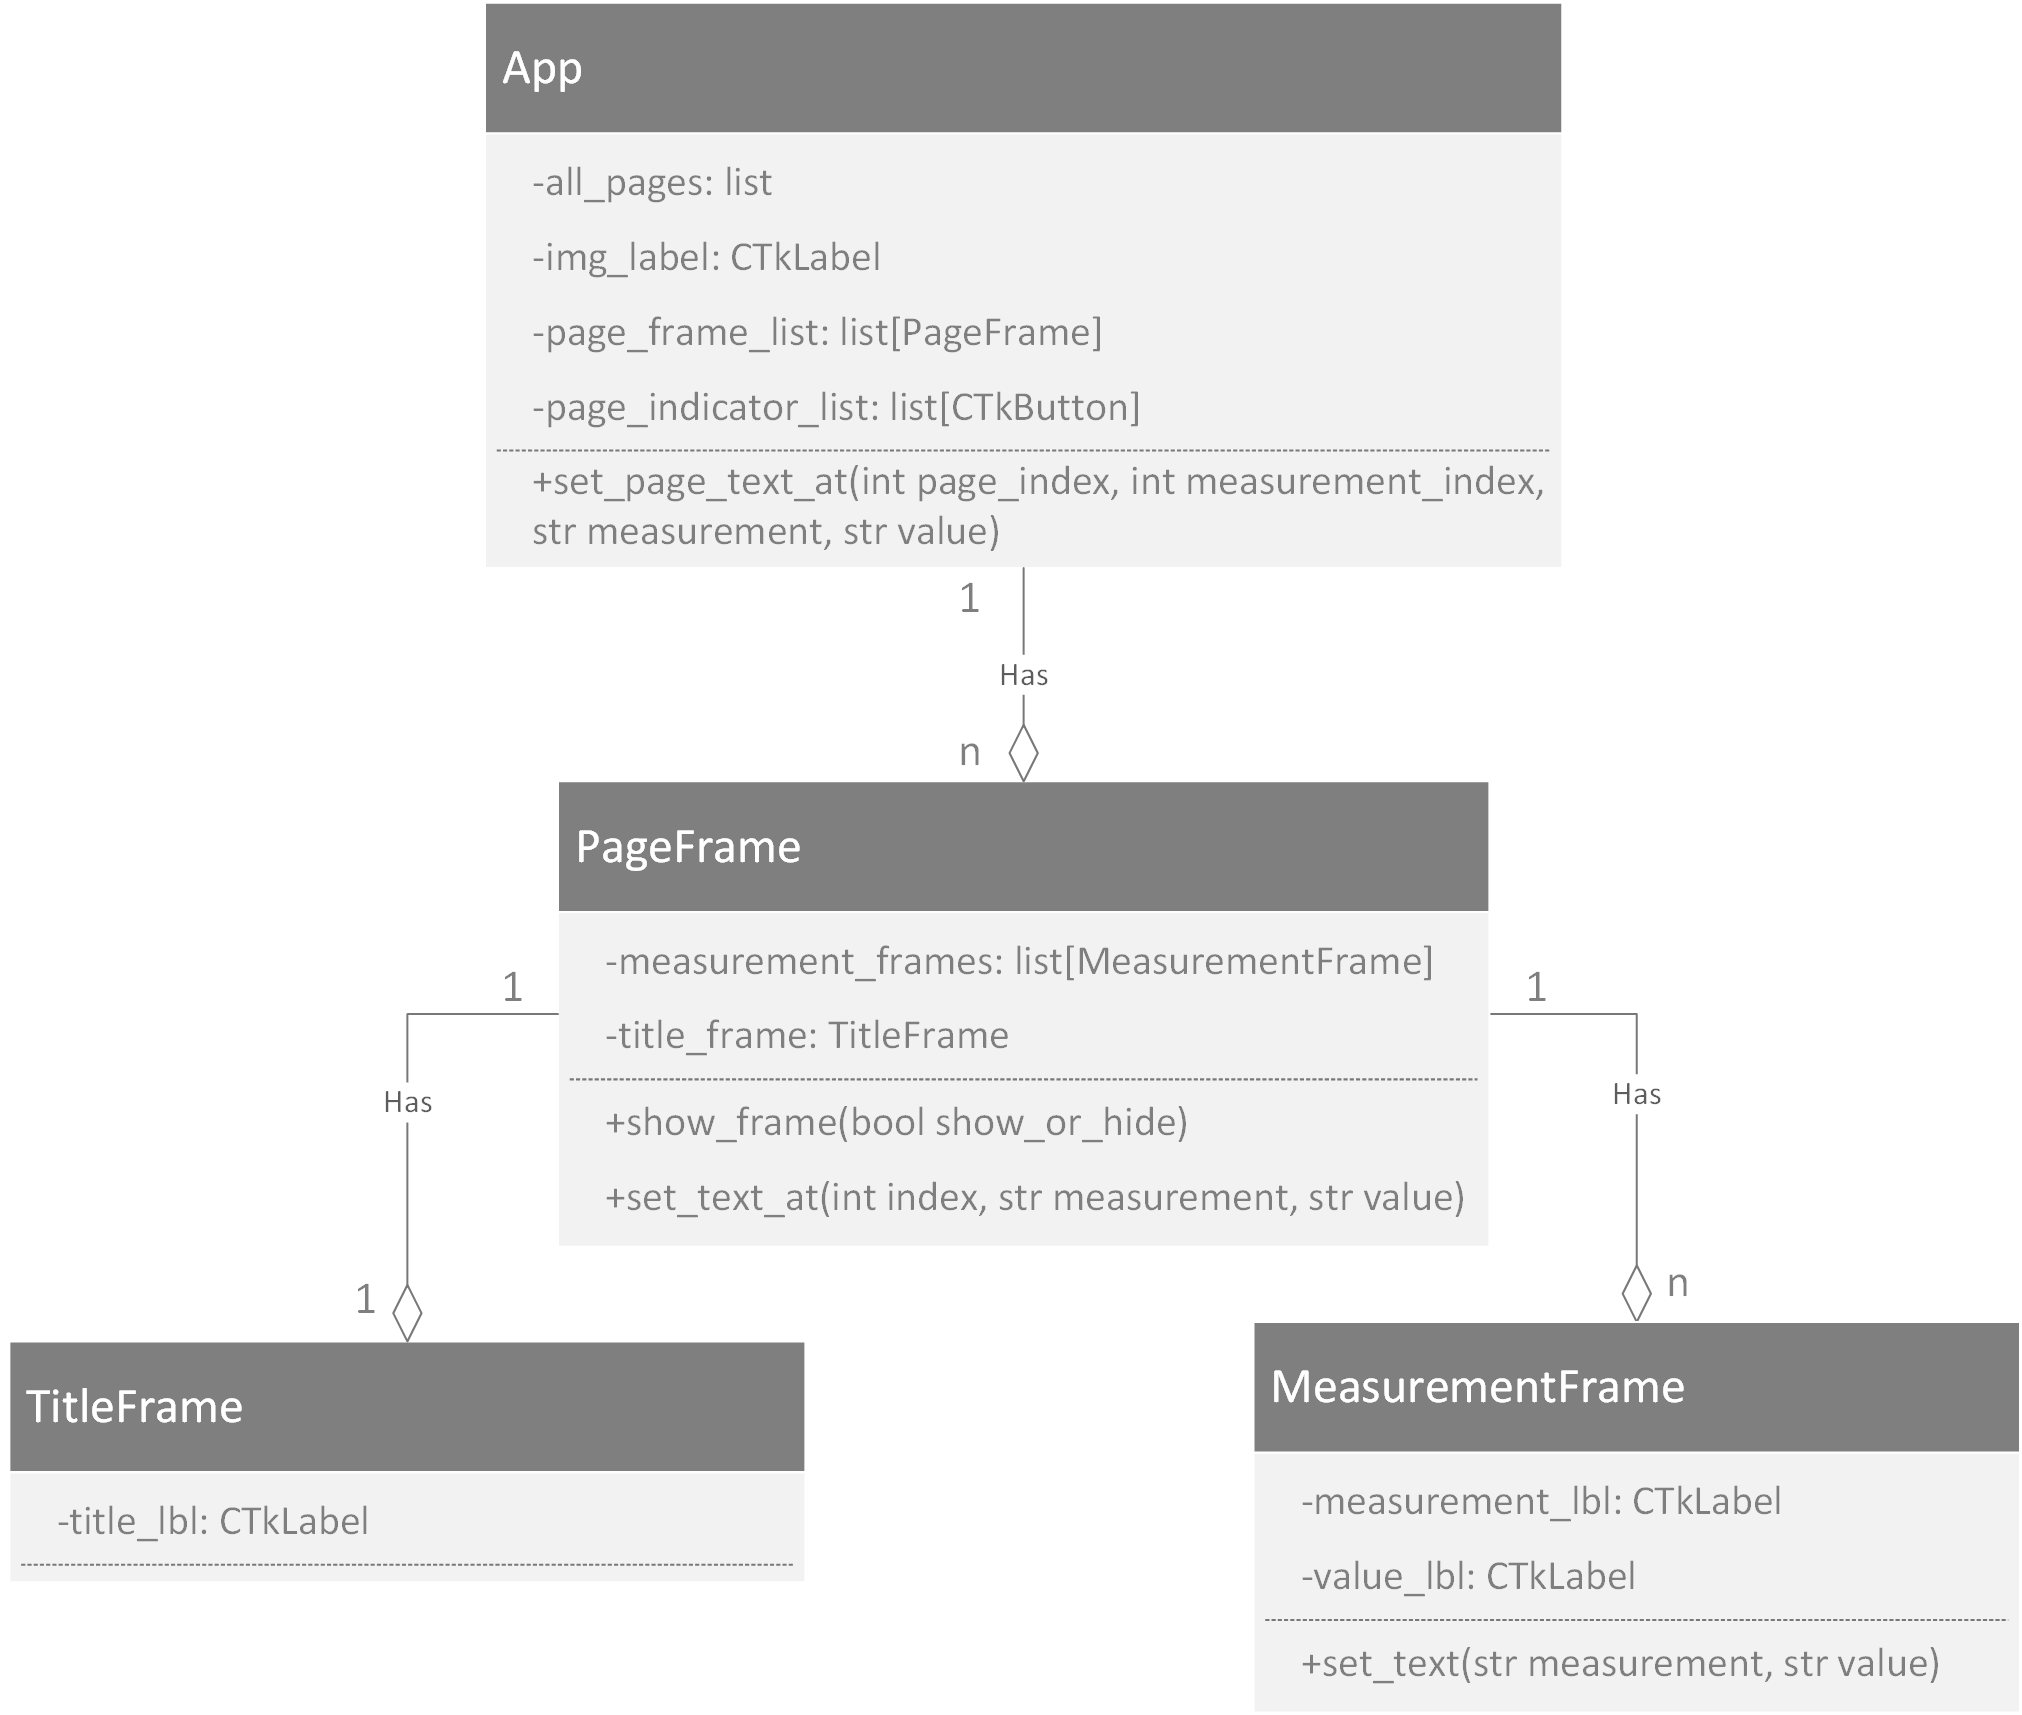
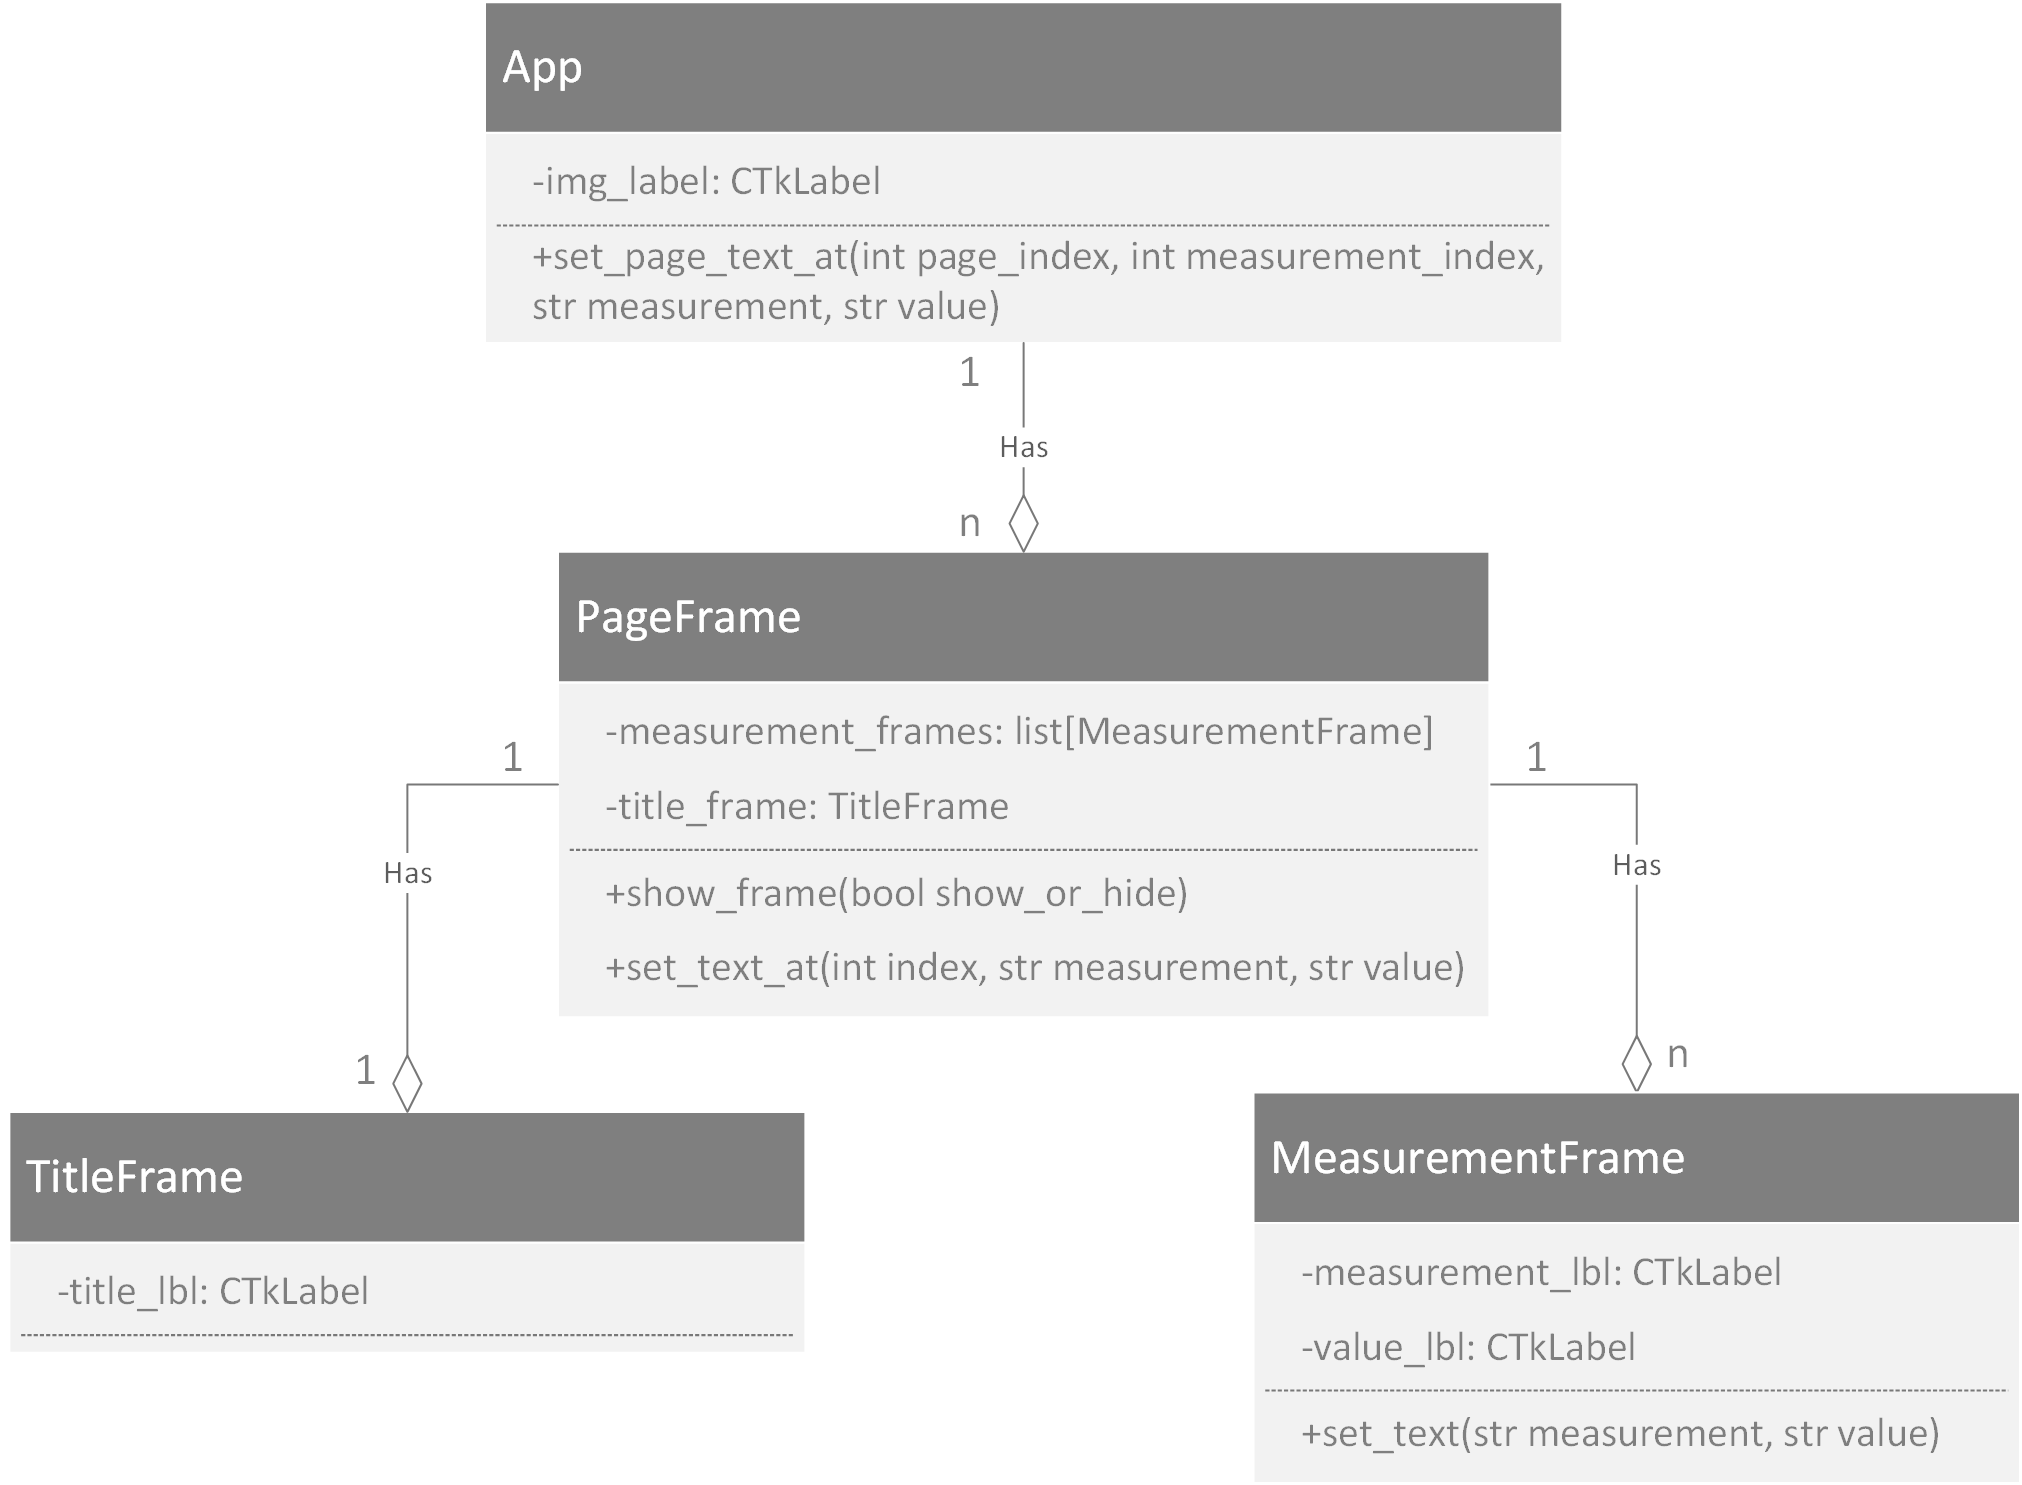
gui code vorerst fertig erklärt

diff --git a/tkintercode.tex b/tkintercode.tex
@@ -4,7 +4,7 @@ Im Vordergrund basiert die Klassenstruktur grundsätzlich auf \gls{gls_ctk} Komp
 
 \begin{figure}[H]
 	\centering
-	\includegraphics[width=0.84\textwidth]{uml_frontent_class_diagram}
+	\includegraphics[width=0.95\textwidth]{uml_frontent_class_diagram}
 	\caption{UML Diagramm Frontend \label{fig:klassenstruktur_frontend}}
 \end{figure}
 
@@ -12,7 +12,7 @@ Im Vordergrund basiert die Klassenstruktur grundsätzlich auf \gls{gls_ctk} Komp
 Eine nähere Beschreibung und die Umsetzung der vorher genannten Klassen erfolgt in diesem Kapitel. 
 \newline Wie zuletzt beschrieben, basieren alle Klassen im Frontend auf \gls{gls_ctk}. Die Klassen sind dabei alle (bis auf die Klasse \enquote{App}) vom Typ \enquote{CTkFrame}. Ein \enquote{CTkFrame} ist ein Widget, das wie ein Rahmen \bzw Behälter für andere Widgets fungiert. So können diese in weiteren Widgets gruppiert und besser organisiert werden. Als erster Parameter wird für \enquote{CTkFrames}, wie bei allen \gls{gls_tk} und \gls{gls_ctk} Widgets, der \enquote{master} \bzw das Elternobjekt angegeben. Darüber hinaus können die Breite (\enquote{width}), Höhe (\enquote{height}), Rahmenbreite \bzw -Farbe (\enquote{border\_width} \bzw \enquote{border\_color}) sowie die Hintergrundfarbe (\enquote{fg\_color}) angegeben werden. \cite[vgl.][]{Schimansky:o.J.}
 
-Die Klasse \enquote{TitleFrame} enthält ein \enquote{CTkLabel}, welches mit der \enquote{place( )} Methode im Behälter platziert wird. Die Klasse \enquote{CTkLabel} basiert auf der Klasse \enquote{tkinter.Label} und dient zur Darstellung eines Textes. In diesem Label steht immer der Titel der zugehörigen Seite. Das \enquote{title\_font} Objekt, welches im folgenden Code zu sehen ist, ist eine Instanz der \gls{gls_ctk} Utility Klasse \enquote{CTkFont}. Es wird verwendet, um die Schriftformatierung von \gls{gls_ctk} Widgets vorzunehmen. Jedes \gls{gls_ctk} Widget bekommt standardmäßig ein \enquote{CTkFont} Objekt, wobei ein solches Objekt zeitgleich mehreren Widgets angefügt werden kann. Eine Änderung eines \enquote{CTkFont} Objekts wird an alle Widgets, die es verwenden, weitergeleitet. \cite[vgl.][]{Schimansky:o.J.}
+Die Klasse \enquote{TitleFrame} enthält ein \enquote{CTkLabel}, welches mit der \enquote{place( )} Methode im Behälter platziert wird. Die Klasse \enquote{CTkLabel} basiert auf der Klasse \enquote{tkinter.Label} und dient zur Darstellung eines Textes. Im \enquote{TitleFrame} Label steht immer der Titel der zugehörigen Seite. Das \enquote{title\_font} Objekt, welches im folgenden Code zu sehen ist, ist eine Instanz der \gls{gls_ctk} Utility Klasse \enquote{CTkFont}. Es wird verwendet, um die Schriftformatierung von \gls{gls_ctk} Widgets vorzunehmen. Jedes \gls{gls_ctk} Widget bekommt standardmäßig ein \enquote{CTkFont} Objekt, wobei ein solches Objekt zeitgleich mehreren Widgets angefügt werden kann. Eine Änderung eines \enquote{CTkFont} Objekts wird an alle Widgets, die es verwenden, weitergeleitet. \cite[vgl.][]{Schimansky:o.J.}
 
 \begin{pythoncode}
 class TitleFrame(ctk.CTkFrame):
@@ -26,7 +26,7 @@ class TitleFrame(ctk.CTkFrame):
 \end{pythoncode}
 
 Wie in der Klassenstruktur beschrieben, beinhaltet ein jedes \enquote{PageFrame} neben einem \enquote{TitleFrame} eine Liste von \enquote{MeasurementFrames}. Eine Instanz der Klasse \enquote{MeasurementFrame} enthält immer Informationen zu einem bestimmten Messwert, welche mithilfe von zwei \enquote{CTkLabel} Widgets dargestellt werden. Dabei wird die Bezeichnung des Messwerts links im \enquote{measurement\_lbl} und der tätsichliche Wert einschließlich Maßeinheit rechts im \enquote{value\_lbl} platziert. Die zwei Labels werden durch einen Strich getrennt, der mit dem \gls{gls_tk} Widget \enquote{Canvas} erstellt wird. Ein Canvas ist ein rechteckiger Bereich \bzw eine Leinwand, auf dem Bilder oder andere komplexe Layouts gezeichnet werden können. Zusätzlich lassen sich auf einem Canvas Widget \zB weitere Widgets, Text oder Bilder platzieren. \cite[vgl.][20]{Shipman:2013} 
-\newline Da jeder Messwert kontinuierlich aktualisiert wird, verfügt die \enquote{MeasurementFrame} über die Methode \enquote{set\_text}. In dieser wird mithilfe der \enquote{configure( )} Methode der Text beider Labels aktualisiert. Ein gekürzter Code zur \enquote{MeasurementFrame} Klasse folgt.
+\newline Da jeder Messwert kontinuierlich aktualisiert wird, verfügt die \enquote{MeasurementFrame} Klasse über die Methode \enquote{set\_text}. In dieser wird mithilfe der \enquote{configure( )} Methode der Text beider Labels aktualisiert. Es folgt ein gekürzter Code zur \enquote{MeasurementFrame} Klasse.
 
 \begin{pythoncode}
 class MeasurementFrame(ctk.CTkFrame):
@@ -42,7 +42,7 @@ class MeasurementFrame(ctk.CTkFrame):
 		self.value_lbl.configure(text=value)
 \end{pythoncode}
 
-Die letzte der \gls{gls_ctk} \enquote{CTkFrame} Klassen ist die \enquote{PageFrame} Klasse. Wie bereits erwähnt dient jede Instanz dieser Klasse als unsichtbarer Behälter \bzw Seite, die ein \enquote{TitleFrame} sowie eine Liste von \enquote{MeasurementFrames} beinhält. Diese Komponenten werden, wie im nachstehenden Code zu sehen ist, im Konstruktor eines jeden \enquote{PageFrames} zugeordnet. Die Parameter \enquote{title} und \enquote{measurement} stammen aus der JSON Haupt-Konfigurationsdatei (siehe Kapitel \ref{json_config_files}, Tab. \ref{tab:pages_array_parameter} unter \enquote{title} \bzw Tab. \ref{tab:sources_array_parameter}  unter \enquote{description}) und können daher schon bei Erstellung der \enquote{PageFrame} Instanzen übergeben werden. Der \enquote{value} Parameter der individuellen \enquote{MeasurementFrames} hingegen wird laufend von der Methode \enquote{set\_text\_at( )} aktualisiert und ist daher am Anfang bis zum ersten Auslesen auf \enquote{N/A} (\dt nicht verfügbar) gesetzt.
+Die letzte der \gls{gls_ctk} \enquote{CTkFrame} Klassen ist die \enquote{PageFrame} Klasse. Wie bereits erwähnt ist jede Instanz dieser Klasse ein unsichtbarer Behälter, der ein \enquote{TitleFrame} sowie eine Liste von \enquote{MeasurementFrames} beinhält und als Seite dient. Diese Komponenten werden, wie im nachstehenden Code zu sehen ist, im Konstruktor eines jeden \enquote{PageFrames} zugeordnet. Die Parameter \enquote{title} und \enquote{measurement} stammen aus der \acs{json} Haupt-Konfigurationsdatei (siehe Kapitel \ref{json_config_files}, Tab. \ref{tab:pages_array_parameter} unter \enquote{title} \bzw Tab. \ref{tab:sources_array_parameter}  unter \enquote{description}) und können daher schon bei Erstellung der \enquote{PageFrame} Instanzen übergeben werden. Der \enquote{value} Parameter der individuellen \enquote{MeasurementFrames} hingegen wird laufend von der Methode \enquote{set\_text\_at( )} aktualisiert und ist daher am Anfang bis zum ersten Auslesen auf \enquote{N/A} (\dt nicht verfügbar) gesetzt.
 	
 \begin{pythoncode}
 class PageFrame(ctk.CTkFrame):
@@ -60,7 +60,7 @@ class PageFrame(ctk.CTkFrame):
 ...
 \end{pythoncode}
 
-Die \enquote{PageFrame} Klasse enthält zudem eine \enquote{show\_frame( )} Methode, die dazu dient die jeweilige \enquote{PageFrame} Instanz \bzw ihren Inhalt sichtbar oder unsichtbar zu machen. Diese Methode ist notwendig, damit zwischen den unterschiedlichen Seiten gewechselt werden kann.
+Die \enquote{PageFrame} Klasse enthält zudem eine \enquote{show\_frame( )} Methode, die dazu dient die jeweilige \enquote{PageFrame} Instanz \bzw ihren Inhalt sichtbar oder unsichtbar zu machen. Diese Methode ist notwendig, um zwischen den unterschiedlichen Seiten wechseln zu können \bzw die Seitenstruktur (siehe Kapitel \ref{figma_design}) für die jeweilige \acs{rltanzeige} umzusetzen.
 
 \begin{pythoncode}
 ...
@@ -79,40 +79,56 @@ Die \enquote{PageFrame} Klasse enthält zudem eine \enquote{show\_frame( )} Meth
 				my_frame.place_forget()
 \end{pythoncode}
 
-Die Klasse \enquote{App} 
-Die \enquote{set\_page\_text\_at( )} Methode wird in der \enquote{data\_refresh( )} Methode aufgerufen (siehe Kapitel \ref{auslesen_rlt_parameter}), welche dazu dient, die Messwerte regelmäßig zu aktualisieren.
+Die Klasse \enquote{App} ist eine Instanz der \gls{gls_ctk} Window Klasse \enquote{CTk}. Die \enquote{CTk} Klasse bildet als Hauptfenster die Grundlage für jedes \gls{gls_ctk} Programm. Dabei sollte während der Laufzeit eines Programmes immer nur eine Instanz der \enquote{CTk} Klasse existieren, wobei weitere Fenster mit der \enquote{CTkToplevel} Klasse erstellt werden können. Mit Aufruf der \enquote{mainloop( )} Methode wird das Programm gestartet.
+\cite[vgl.][]{Schimansky:o.J.} 
+
+Folgend ist ein vereinfachter Code des Konstruktors der Klasse \enquote{App} zu sehen. Hier wird das Hauptfenster aufgesetzt. Dabei wird zuerst mit den Methoden \enquote{attributes( )}, \enquote{resizable( )} und \enquote{config( )} die Größe des Fensters festgelegt, sowie der Cursor deaktiviert, da die \acs{rltanzeige} durch Knöpfe gesteuert wird und dieser daher irrelevant ist. Daraufhin wird das Logo der Firma Bösch hinzugefügt. Dafür kommt die \gls{gls_ctk} Utility Klasse \enquote{CTkImage} zum Einsatz, die als Behälter für das Bild dient und wiederum mithilfe eines \enquote{CTkLabels} im Hauptfenster platziert wird.
 
 \begin{pythoncode}
 class App(ctk.CTk):
-	def __init__(self, all_pages, *args, **kwargs):
+	def __init__(self, all_pages, page_frame_list, page_indicator_list, *args, **kwargs):
 		super().__init__(*args, **kwargs)
 		self.attributes('-fullscreen', True)
 		self.resizable(False, False)
 		self.config(cursor="none")
 		
-		boesch_logo = ctk.CTkImage(light_image=Image.open("..."), dark_image=Image.open("..."), size=(230, 230 * (1 / 3)))
-		
+		boesch_logo = ctk.CTkImage(light_image=Image.open("..."), dark_image=Image.open("..."), size=(x, y))
 		self.img_label = ctk.CTkLabel(master=self, image=boesch_logo, text="")
 		self.img_label.place(...)
-		
-		global page_frame_list
-		page_frame_list = []
-		global page_indicator_list
-		page_indicator_list = []
-		
-		for page in all_pages:  # Creates Frames based on the sensor data
-			page_frame_list.append(PageFrame(master=self, title=page.title, parameters=page.measurements))
-		
-		page_frame_list[globals_.current_page].show_frame(True)
+...
+\end{pythoncode}
 
-		start_x_position = 0.975 - len(page_frame_list) / 45.0
-		
+% Weiters werden im Konstruktor die globalen Listen \enquote{page\_frame\_list } und \enquote{page\_indicator\_list} erstellt, die zur Verwaltung der \enquote{PageFrames} sowie Indikatoren für die Seitenanzeige dienen.
+
+Weiters wird im Konstruktor für jede \enquote{Page} in der Liste \enquote{all\_pages} ein \enquote{PageFrame} erstellt und der \enquote{page\_frame\_list} hinzugefügt. Die Liste \enquote{all\_pages} ist eine Liste mit allen nötigen Informationen für ein \enquote{PageFrame} und wird im Backend des Programmes erstellt (siehe Kapitel \ref{auslesen_rlt_parameter}). Die \enquote{page\_frame\_list} ist eine globale Liste, die zur Verwaltung der \enquote{PageFrames} dient. Anschließend wird das erste \enquote{PageFrame} sichtbar gemacht, indem die Methode \enquote{show\_frame(True)} aufgerufen wird.
+
+\textbf{\textit{VISIO VERÄNDERN!!! GLOBALE LISTEN/VARIABLEN AUS DER APP KLASSE ENTFERNEN!}}
+
+\begin{pythoncode}
+...	
+		for page in all_pages:
+			page_frame_list.append(PageFrame(master=self, title=page.title, parameters=page.measurements))
+   
+		page_frame_list[0].show_frame(True)
+...
+\end{pythoncode}
+
+Zuletzt werden im Konstruktor die Seitenindikatoren erstellt und platziert. Jeder Indikator wird mithilfe des \gls{gls_ctk} Widgets \enquote{CTkButton} erstellt und ist somit grundsätzlich ein grauer, runder Knopf ohne Text. Eine besonderheit ist dabei, dass der Knopf mithilfe der globalen Variable \enquote{current\_page} erkennen kann, ob er Hellgrau oder Dunkelgrau wird, wenn seine zugehörige Seite angezeigt wird.
+
+Die Position der Seitenindikatoren wird basierend auf der Anzahl der Seiten dynamisch berechnet. Wenn mehr als eine Seite vorhanden ist, wird für jede Seite in der Liste \enquote{page\_frame\_list} ein Indikator erstellt und platziert, wie im folgenden Code vereinfacht gezeigt wird.
+
+\begin{pythoncode}
+...
 		if len(page_frame_list) > 1:
 			for i in range(0, len(page_frame_list)):
-				page_indicator_list.append(ctk.CTkButton(master=self, width=15, height=15, text="", corner_radius=50, fg_color=("#898989" if i == globals_.current_page else "#D9D9D9")))
-				page_indicator_list[i].place(relx=start_x_position + i / 45.0, rely=0.93, anchor=ctk.CENTER)
-		
+				page_indicator_list.append(ctk.CTkButton(master=self, ..., fg_color=("hellgrau" if i == current_page else "dunkelgrau")))
+				page_indicator_list[i].place(relx=start_x_position + number,...)
+...
+\end{pythoncode}
+
+Die Klasse \enquote{App} beinhaltet eine Methode mit dem Namen \enquote{set\_page\_text\_at( )}. Sie wird in der \enquote{data\_refresh( )} Methode aufgerufen (siehe Kapitel \ref{auslesen_rlt_parameter}), welche dazu dient, die Messwerte regelmäßig zu aktualisieren.
+
+\begin{pythoncode}
 	def set_page_text_at(self, page_index, measurement_index, value):
     	page_frame_list[page_index].set_text_at(measurement_index, value)
-	
 \end{pythoncode}

diff --git a/python_functions.tex b/python_functions.tex
@@ -199,7 +199,8 @@ Eine Angabe in der Haupt-Konfigurationsdatei sieht wie folgt aus. Dabei ist zu b
 
 
 \paragraph{Funktion \enquote{calc\_volume}}
-Wird verwendet, um bei ebm-papst Ventilatoren den Volumenstrom zu ermitteln. Dieser gibt an, wie viel Luftvolumen der Ventilator pro Stunde befördert. Zur Bestimmung des Volumenstroms ($q_{V}$) kommt bei ebm-papst das Wirkdruckverfahren zum Einsatz, welches den statischen Druck vor und in der Einströmdüse vergleicht ($\rightarrow$ Differenzdruck der statischen Drücke $\Delta p$). \\
+Wird verwendet, um bei ebm-papst Ventilatoren den Volumenstrom zu ermitteln. Dieser gibt an, wie viel Luftvolumen der Ventilator pro Stunde befördert. Zur Bestimmung des Volumenstroms ($q_{V}$) kommt bei ebm-papst das Wirkdruckverfahren zum Einsatz, welches den statischen Druck vor und in der Einströmdüse vergleicht ($\rightarrow$ Differenzdruck der statischen Drücke $\Delta p$).
+
 Die Formel für die Berechnung des Volumenstroms \eqref{glg:volumenstrom_berechnung} ist folgend zu sehen, wobei der K-Faktor \bzw Durchflussfaktor \cite[vgl.][]{rox_klimatechnik:o.J.} von der Größe der Einströmdüse abhängt und aus Datenblättern entnommen wird. \cite[vgl.][171]{ebmpapst:2021}
 
 \begin{equation}

diff --git a/json_config_files.tex b/json_config_files.tex
@@ -97,7 +97,6 @@ Es folgt eine aufbauende Beschreibung und Erklärung der drei Dateitypen:
 \end{longtable}
 
 	
-	
 \begin{table}[H]
     \caption{Parameter des Unterarray \enquote{units}}
     \label{tab:units_array_parameter}
